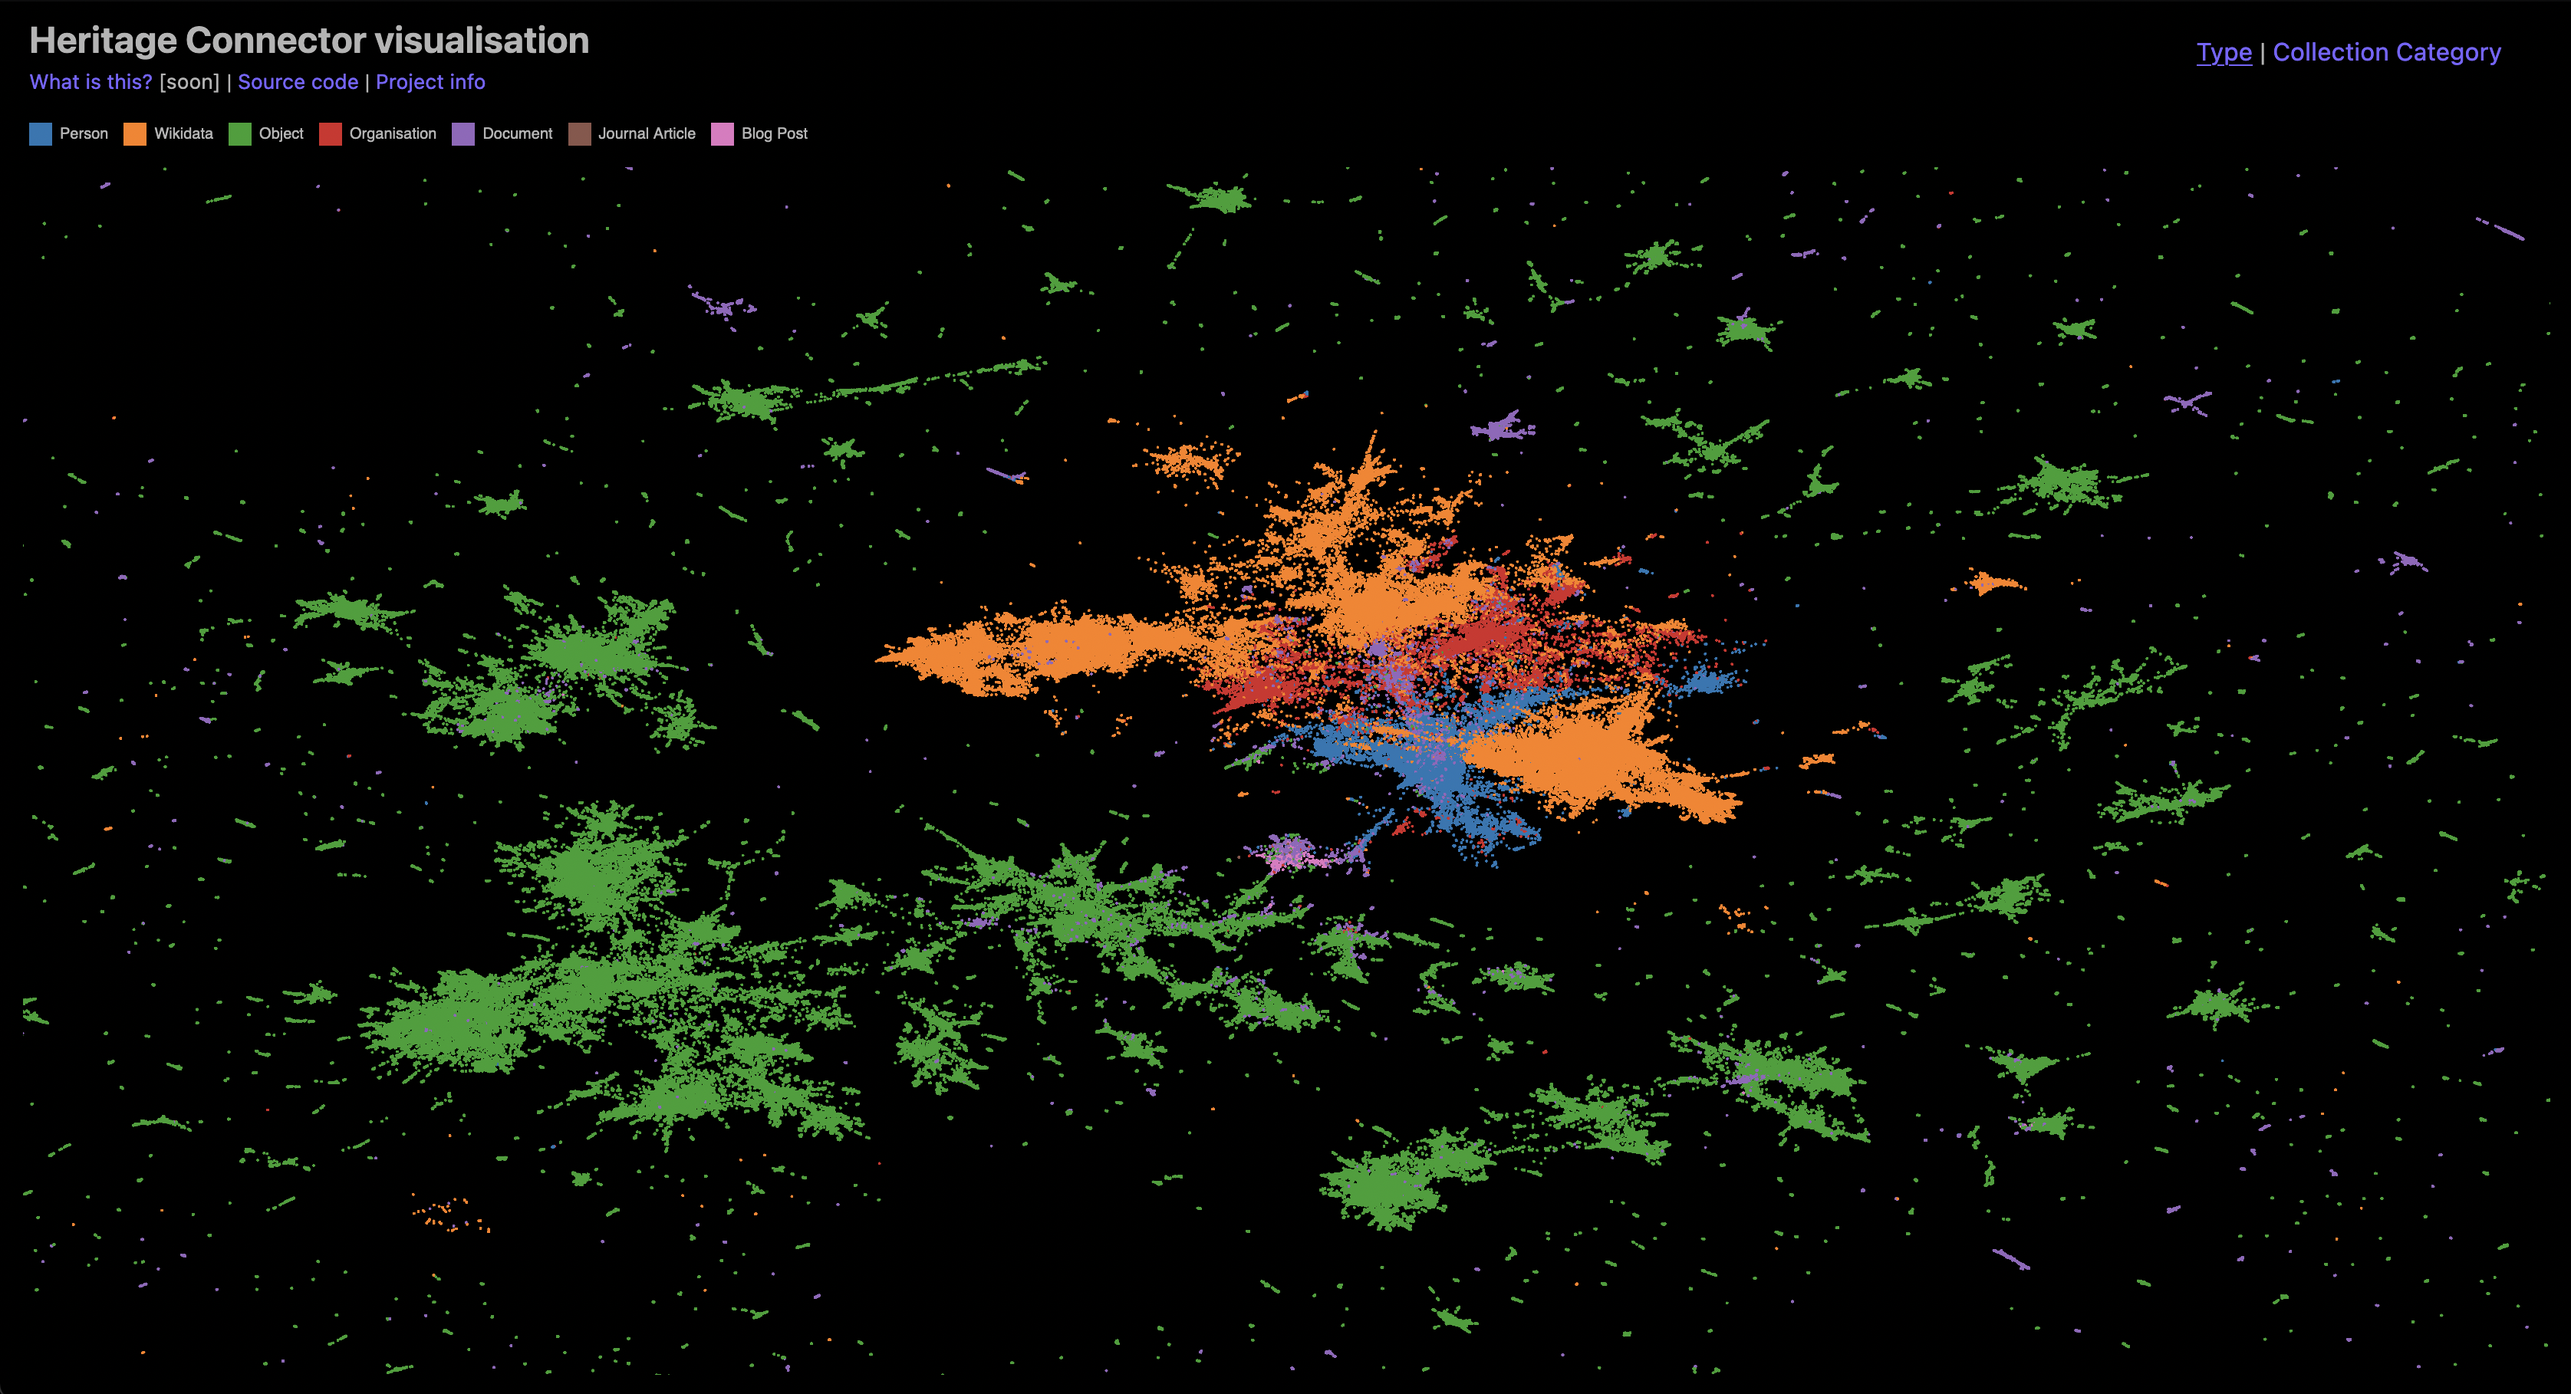
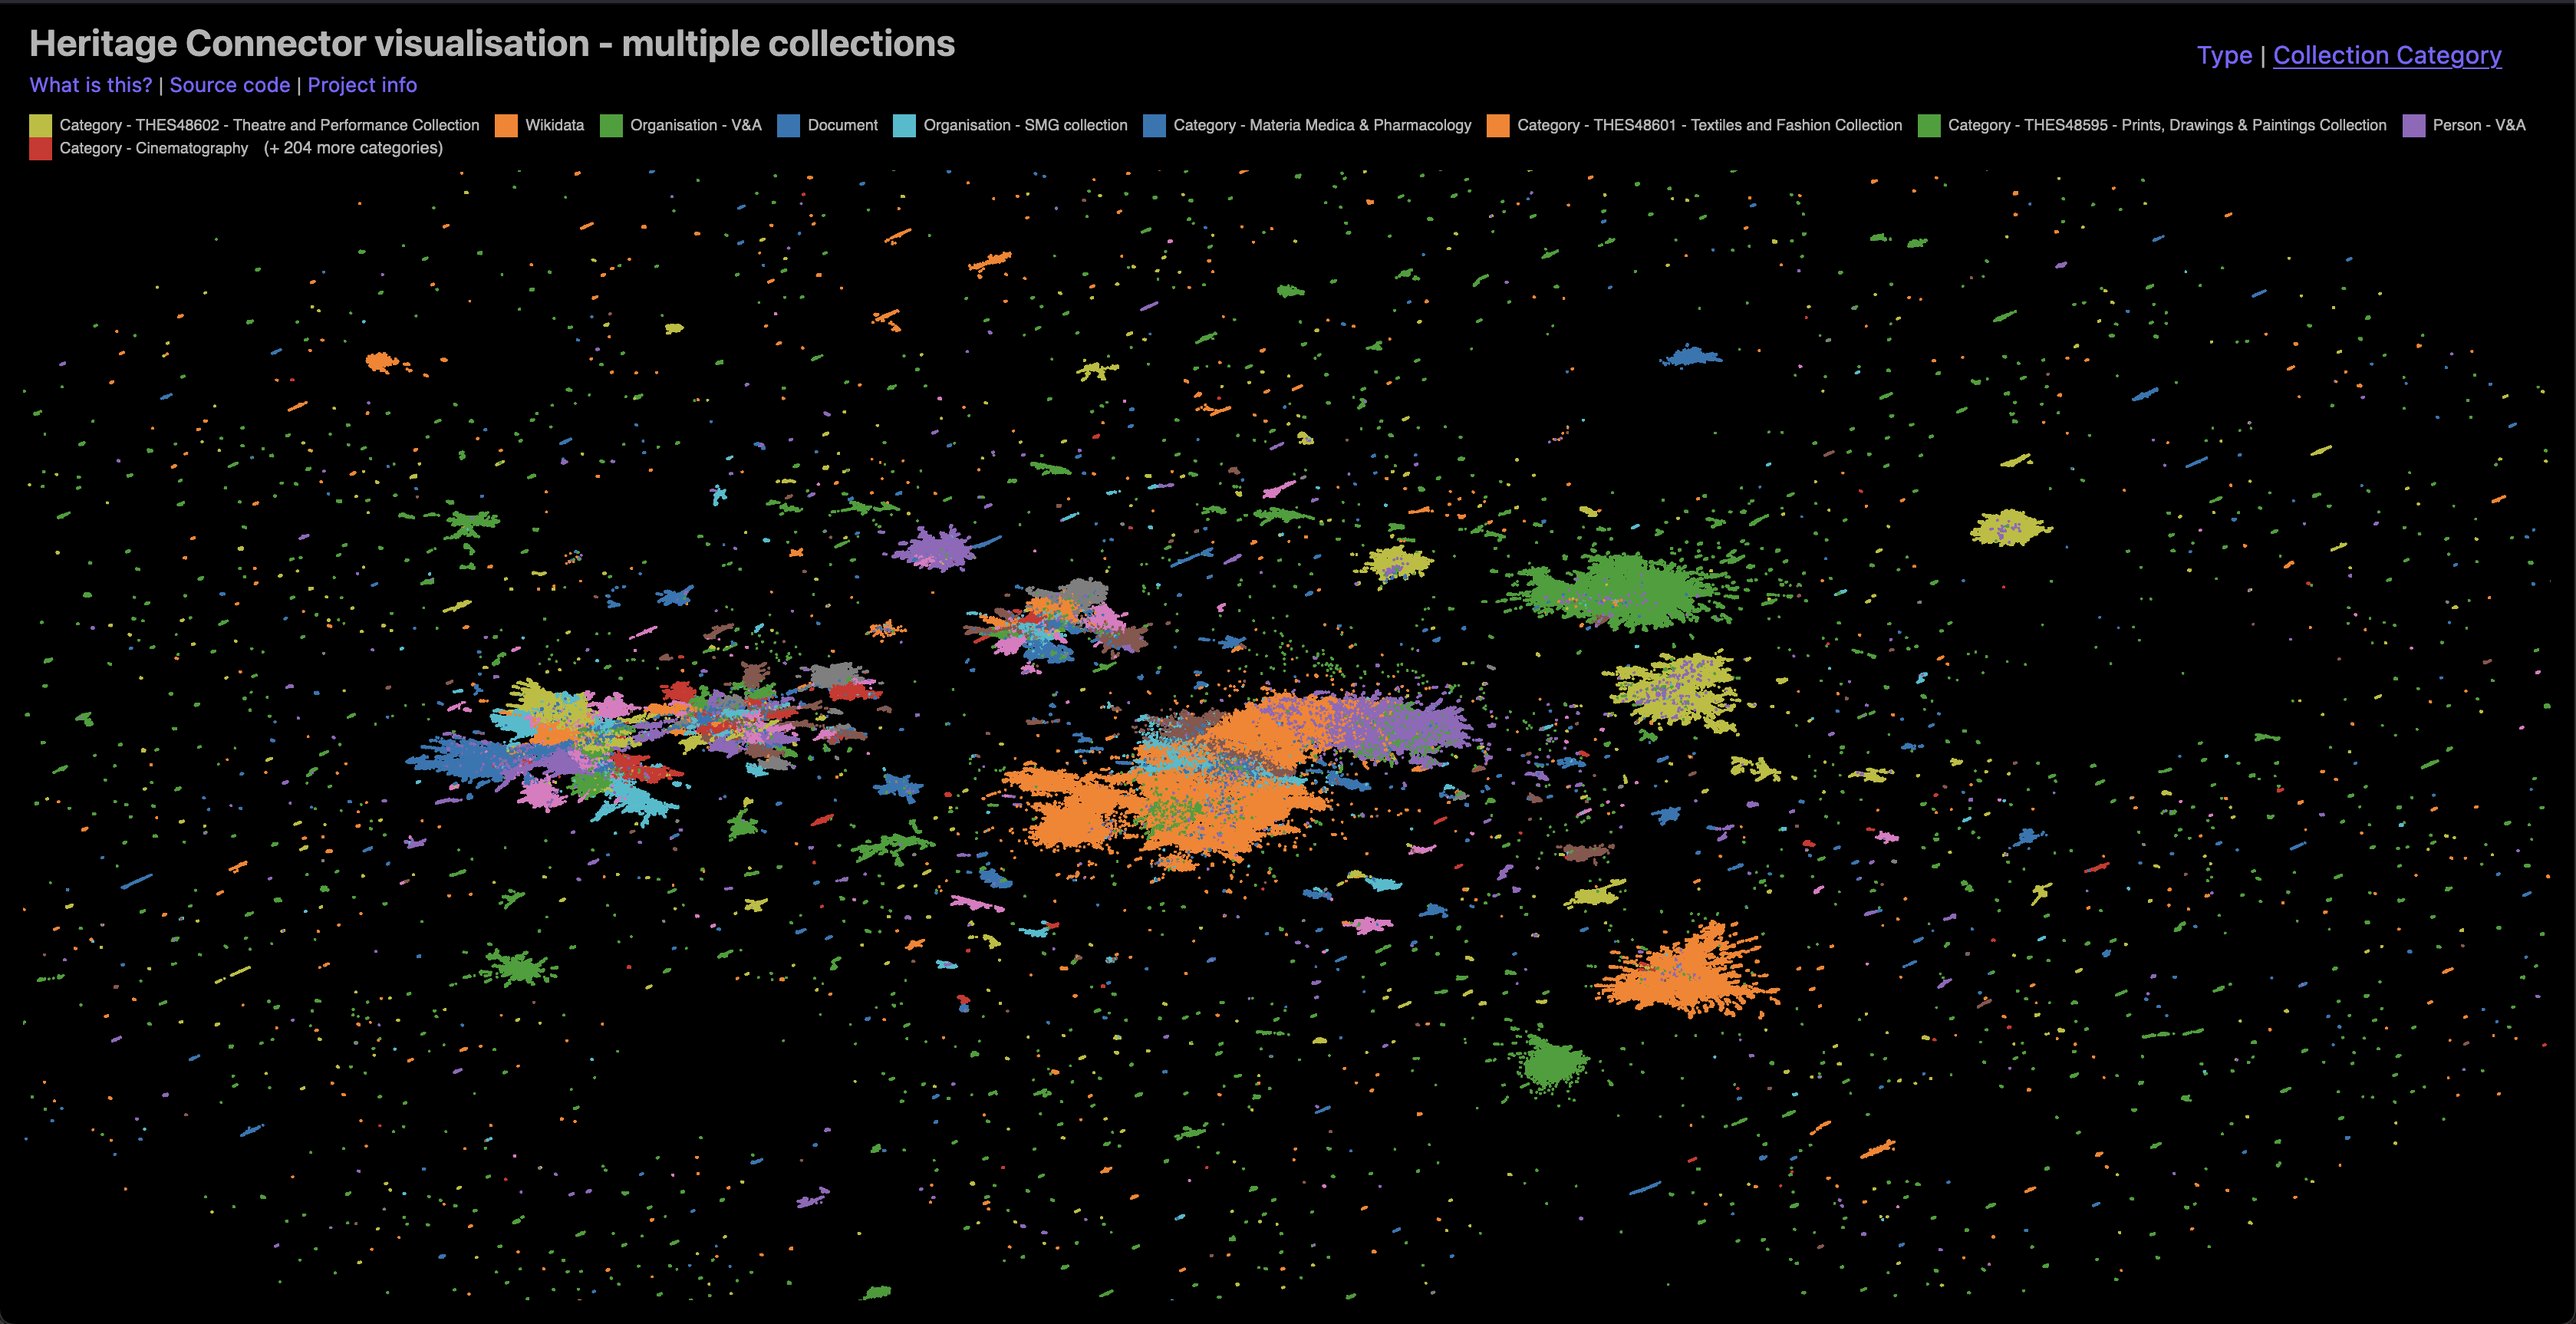
a proper landing page

diff --git a/index.html b/index.html
@@ -1,0 +1,67 @@
+<!doctype html>
+<html>
+<head>
+    <title>Heritage Connector Metadata Explorer</title>
+    <meta charset="UTF-8" />
+    <meta name="viewport" content="width=device-width, initial-scale=1">
+    <link rel="stylesheet" href="https://unpkg.com/tachyons@4.12.0/css/tachyons.min.css"/>
+    <style>
+    a[target=_blank]:after {
[1 lines of base64/hex data omitted]
+        margin: 0 3px 0 5px;
+      }
+    </style>
+</head>
+
+<body>
+    <article class="pa3 pa5-ns sans-serif">
+        <h1 class="f3 f2-m f1-l">Heritage Connector demos</h1>
+        <p class="measure lh-copy">
+        This page serves as a directory of demos for the <a href="https://www.sciencemuseumgroup.org.uk/project/heritage-connector/" target="_blank">Heritage Connector project</a>.
+        </p>
+        <p class="measure lh-copy">
+            <section class="cf w-100 pa2-ns">
+                <article class="fl w-100 w-50-m w-25-ns pa2-ns">
+                    <div class="aspect-ratio aspect-ratio--1x1">
+                        <a href="#0" class="ph2 ph0-ns pb3 link db">
+                            <img style="background-image:url(https://thesciencemuseum.github.io/heritage-connector-demos/imgs/metadata_explorer.png);" 
+                            class="db bg-center cover aspect-ratio--object" />
+                        </div>
+                        <h3 class="f5 f4-ns mb0 black-90">Metadata explorer</h3>
+                        <h3 class="f6 f5 fw4 mt2 black-60">An interface for guided exploration of the Heritage Connector knowledge graph.</h3>
+                    </a>
+                </article>
+                <article class="fl w-100 w-50-m w-25-ns pa2-ns">
+                    <div class="aspect-ratio aspect-ratio--1x1">
+                        <a href="#0" class="ph2 ph0-ns pb3 link db">
+                            <img style="background-image:url(https://thesciencemuseum.github.io/heritage-connector-demos/3_visualisation/screenshot.png);" 
+                            class="db bg-center cover aspect-ratio--object" />
+                        </div>
+                        <h3 class="f5 f4-ns mb0 black-90">Visualisation</h3>
+                        <h3 class="f6 f5 fw4 mt2 black-60">View a map of a knowledge graph containing the Science Museum Group's collection, blog and journal. </h3>
+                    </a>
+                </article>
+                <article class="fl w-100 w-50-m w-25-ns pa2-ns">
+                    <div class="aspect-ratio aspect-ratio--1x1">
+                        <a href="#0" class="ph2 ph0-ns pb3 link db">
+                            <img style="background-image:url(https://thesciencemuseum.github.io/heritage-connector-demos/4_visualisation_vanda/screenshot.png);" 
+                            class="db bg-center cover aspect-ratio--object" />
+                        </div>
+                        <h3 class="f5 f4-ns mb0 black-90">Visualisation - multiple collections</h3>
+                        <h3 class="f6 f5 fw4 mt2 black-60">View a map of a knowledge graph containing the Science Museum Group's collection, blog and journal, and part of the V&A's collection.</h3>
+                    </a>
+                </article>
+                <article class="fl w-100 w-50-m w-25-ns pa2-ns">
+                    <div class="aspect-ratio aspect-ratio--1x1">
+                    <a href="#0" class="ph2 ph0-ns pb3 link db">
+                    <img style="background-image:url(https://thesciencemuseum.github.io/heritage-connector-demos/2_bookmarklet/screenshot.gif);" 
+                    class="db bg-right cover aspect-ratio--object" />
+                    </div>
+                    <h3 class="f5 f4-ns mb0 black-90">Bookmarklet</h3>
+                    <h3 class="f6 f5 fw4 mt2 black-60">Browse the Heritage Connector knowledge graph from a page within it.</h3>
+                    </a>
+                </article>
+            </section>        
+        </p>
+      </article>
+</body>
